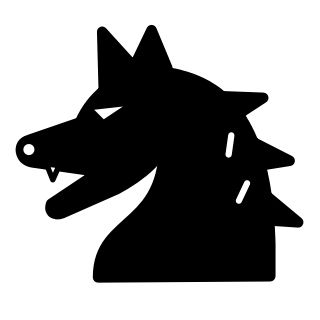
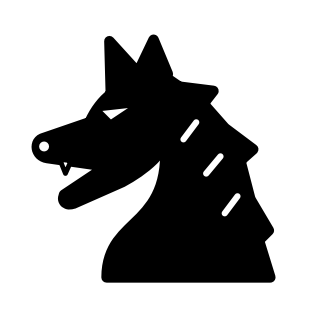
Ghost gets sad jellybean eyes; wolf back to round 22's mane with three of its spikes (local only)

diff --git a/art/source/piece_options/make_final_ghost_bard_werewolf.py b/art/source/piece_options/make_final_ghost_bard_werewolf.py
@@ -1,13 +1,12 @@
-"""Final Ghost (round 23 ghost_sheet with sad eyes), Bard (round 23 lyre_even),
-Werewolf (round 23 human_fur_ears_plain with three evenly spaced fur tufts a
-side) and its wolf form (round 23 wolf_big_head: three evenly spaced spikes down
-its back, no lines in its ears, no bottom tooth, a slightly thicker neck).
+"""Final Ghost (round 23 ghost_sheet with sad jellybean eyes), Bard (round 23
+lyre_even), Werewolf (round 23 human_fur_ears_plain with three evenly spaced fur
+tufts a side) and its wolf form (round 22 wolf_mane with three of its six
+spikes, same shape, evenly spaced; no lines in its ears, no bottom tooth).
 White and black, written to ../pieces/ (the wolf as <team>_werewolf_wolf.svg).
 
 Run from this folder:  python make_final_ghost_bard_werewolf.py
 """
 import io
-import math
 import os
 import sys
 
@@ -31,11 +30,14 @@ def ghost(team):
     out += detail("M 16.6,25 C 16.2,29 15.4,32.6 13.6,35.6 M 28.4,25 C 28.8,29 29.6,32.6 31.4,35.6 "
                   "M 22.5,27.5 L 22.5,34.6", inner(team), 1.0)
     eye = inner(team)
-    # Sad eyes: drooping at the outer corners, under brows raised in the middle.
-    out += shape("M 20.3,14.8 C 20.6,17.4 19.6,18.6 18.3,18.6 C 17,18.6 16.4,17.4 16.5,16 Z", eye, "none")
-    out += shape("M 24.7,14.8 C 24.4,17.4 25.4,18.6 26.7,18.6 C 28,18.6 28.6,17.4 28.5,16 Z", eye, "none")
-    out += detail("M 16,13.4 L 20,11.9 M 29,13.4 L 25,11.9", eye, 1.2)
+    # Sad eyes (Mac): tall jellybeans, dented on the inside, their tops leaning in.
+    for cx, lean, flip in ((18.4, 20, 1), (26.6, -20, -1)):
+        out += '<g transform="translate(%s 16.2) rotate(%s) scale(%s 1)">%s</g>' % (cx, lean, flip, shape(JELLYBEAN, eye, "none"))
     return out
+
+
+# A jellybean eye, centred on (0, 0), the dent on its right.
+JELLYBEAN = "M 0,-3 C 1.7,-3 2.1,-1.4 1.6,0 C 1.2,1.2 1.9,2.6 0.4,3.05 C -1.5,3.5 -2.1,1.8 -2.1,0 C -2.1,-1.8 -1.4,-3 0,-3 Z"
 
 
 # --- Werewolf: the coif with ears and three tufts of fur a side --------------------------
@@ -46,64 +48,22 @@ def werewolf(team):
     return r23.plain_coif(team, fur + r23.ears(team))
 
 
-# --- The wolf ----------------------------------------------------------------------------
-BACK = ((22, 10), (32.5, 11), (38.5, 18), (38, 39))  # The knight's back (a curve).
-
-
-def _bez(t):
-    (x0, y0), (x1, y1), (x2, y2), (x3, y3) = BACK
-    u = 1 - t
-    return (u ** 3 * x0 + 3 * u * u * t * x1 + 3 * u * t * t * x2 + t ** 3 * x3,
-            u ** 3 * y0 + 3 * u * u * t * y1 + 3 * u * t * t * y2 + t ** 3 * y3)
-
-
-# The curve sampled finely, with the distance along it to each sample.
-_SAMPLES = [_bez(i / 400) for i in range(401)]
-_DIST = [0.0]
-for _i in range(1, len(_SAMPLES)):
-    _DIST.append(_DIST[-1] + math.dist(_SAMPLES[_i - 1], _SAMPLES[_i]))
-
-
-def _at(fraction):
-    """The point `fraction` of the way along the back, and the unit tangent and
-    outward normal there."""
-    target = fraction * _DIST[-1]
-    i = next(k for k, d in enumerate(_DIST) if d >= target)
-    i = min(max(i, 1), len(_SAMPLES) - 2)
-    p = _SAMPLES[i]
-    tx, ty = _SAMPLES[i + 1][0] - _SAMPLES[i - 1][0], _SAMPLES[i + 1][1] - _SAMPLES[i - 1][1]
-    n = math.hypot(tx, ty)
-    tx, ty = tx / n, ty / n
-    return p, (tx, ty), (ty, -tx)
-
-
-SPIKES = (0.27, 0.48, 0.69)  # Where each spike starts, as a share of the back's length.
-SPIKE_SPAN = 0.09
+# --- The wolf: round 22's maned wolf, with three of its six spikes ------------------------
+# Round 22's mane, spike by spike: (tip, where it rejoins the back). Spikes 2, 4
+# and 6 are kept exactly as they were (Mac: same fur shape, three instead of
+# six); where 1, 3 and 5 were, the back runs straight on between the spikes.
+MANE = [((26.4, 10.4), (25.2, 12.2)), ((30, 12.8), (28.6, 14.6)), ((33.2, 16.4), (31.6, 18)),
+        ((35.6, 21), (33.8, 22.6)), ((37, 26.6), (35.2, 28)), ((37.8, 32.4), (36.4, 33.8))]
+KEPT = (1, 3, 5)
 
 
 def wolf_body():
-    """The knight's back with three spikes of fur evenly spaced down it, and its
-    front (neck) line a little further left than the knight's."""
-    points = []
-    marks = sorted([0.0, 1.0] + [s for s in SPIKES] + [s + SPIKE_SPAN for s in SPIKES])
     d = "M 22,10"
-    position = 0.0
-    for start in SPIKES:
-        # Along the back to the spike.
-        for k in range(1, 13):
-            f = position + (start - position) * k / 12
-            (x, y), _, _ = _at(f)
-            d += " L %.2f,%.2f" % (x, y)
-        (bx, by), (tx, ty), (nx, ny) = _at(start + SPIKE_SPAN * 0.45)
-        d += " L %.2f,%.2f" % (bx + nx * 4.0 + tx * 2.6, by + ny * 4.0 + ty * 2.6)
-        (ex, ey), _, (nx, ny) = _at(start + SPIKE_SPAN)
-        d += " L %.2f,%.2f" % (ex - nx * 0.9, ey - ny * 0.9)
-        position = start + SPIKE_SPAN
-    for k in range(1, 13):
-        f = position + (1.0 - position) * k / 12
-        (x, y), _, _ = _at(f)
-        d += " L %.2f,%.2f" % (x, y)
-    return d + " L 13.8,39 C 13.8,30 24.2,32.5 23,18"
+    for i, (tip, rejoin) in enumerate(MANE):
+        if i in KEPT:
+            d += " L %s,%s" % tip
+        d += " L %s,%s" % rejoin
+    return d + " L 38,39 L 15,39 C 15,30 25,32.5 23,18"
 
 
 def wolf_head(team):
@@ -120,17 +80,9 @@ def wolf_head(team):
 def wolf(team):
     fill, line = colours(team)
     out = shape(wolf_body(), fill)
-    # A line of fur under each gap between the spikes.
-    lines = ""
-    for i in range(len(SPIKES) - 1):
-        middle = (SPIKES[i] + SPIKE_SPAN + SPIKES[i + 1]) / 2
-        (x, y), (tx, ty), (nx, ny) = _at(middle)
-        x0, y0 = x - nx * 2.4, y - ny * 2.4
-        lines += "M %.2f,%.2f L %.2f,%.2f " % (x0, y0, x0 - nx * 1.6 + tx * 2.2, y0 - ny * 1.6 + ty * 2.2)
-    out += detail(lines, inner(team), 0.9)
-    k, cx, cy = 1.12, 24, 17  # The head 12% bigger, grown about the back of the neck.
-    head = wolf_head(team).replace('stroke-width="1.5"', 'stroke-width="%.2f"' % (1.5 / k))
-    return out + '<g transform="translate(%.2f %.2f) scale(%s)">%s</g>' % (cx * (1 - k), cy * (1 - k), k, head)
+    # Round 22's strokes of fur, one under each spike.
+    out += detail("M 27.6,17.2 L 25.8,19.6 M 31,22 L 29,24.4 M 33.4,27.6 L 31.6,30", inner(team), 0.9)
+    return out + wolf_head(team)
 
 
 PIECES = {"ghost": ghost, "bard": r23.lyre_even, "werewolf": werewolf, "werewolf_wolf": wolf}

diff --git a/CLAUDE.md b/CLAUDE.md
@@ -136,7 +136,7 @@ Mac: don't push or deploy any of this until he says so. Commit on `new-pieces`; 
 * Special rules: Parapet (PA, 3, Castle; sideways slide + diagonal step; `blocks_jumps`: nothing leaps over it, Knights count as 2 straight then 1, no Cannon screen), Vampire (V, 4; sideways/back slides, diagonal forward step; `shield_on_capture`, FEN `+`, small blue shield drawn on its square), Squire (SQ, 3; 2 straight or 1 diagonal; `protects ["knight"]`: Knights it could reach can't be captured), Jester (J, 4; moves 2, captures 1, any direction; `decoy`: takes the hit for a non-pawn piece it could reach, swapping places).
 * Abilities (once per game, uses the turn): Ghost (G, 3, diagonal step or 1 forward; HAUNT, pale blue -> icy white: once captured, on a later turn it comes back on ANY empty square; button shows with nothing selected; no rings, the captured Ghost glows in the captures row (`CapturedRow.haunting`) while choosing; can give check). Bard (BD, 3.5, up to 4 diagonally; SONG_OF_SLUMBER, gold -> amber: an enemy piece it could capture (not a king) can't move on the next turn; `GameState.frozen_piece()` = last move's `frozen`; "Zz" on it; a sleeping piece doesn't give check (lifted off the board in the legality check), so singing to a checking piece answers check). Werewolf (WW, 3, as the Ghost; FULL_MOON, moon white -> silver: becomes `transforms_into` = `res://data/pieces/forms/werewolf_wolf.tres` (WF; 1 sideways or back, up to 2 forward or diagonally forward, blocked) for good; `Piece.base_def` / `starting_def()` so Raise Dead brings back a Werewolf; the piece card has an "After Full Moon" / "Before Full Moon" button (`PieceCard.turn_over`)).
 * Sounds: LULLABY and HAUNT made in code; HOWL = `res://audio/sfx/wolf_howl.wav`, cut from a public-domain U.S. Fish and Wildlife Service recording (Wikimedia Commons "Wolf howls.ogg", licence note beside it). `GameSounds.recording()` loads .ogg or .wav.
-* Art (final, `art/source/piece_options/make_final_*.py`): Princess crown, Galleon, Catapult, Assassin daggers, Parapet wall, Vampire bat, Squire saddle, Jester cap, Ghost (bedsheet ghost with sad eyes), Bard (lyre, evenly spaced strings), Werewolf (the Man's coif with wolf ears and three fur tufts a side), wolf (knight body, wolf head 12% bigger, three evenly spaced spikes down the back). All in `make_final_ghost_bard_werewolf.py` for the last batch.
+* Art (final, `art/source/piece_options/make_final_*.py`): Princess crown, Galleon, Catapult, Assassin daggers, Parapet wall, Vampire bat, Squire saddle, Jester cap, Ghost (bedsheet ghost with sad jellybean eyes, no brows), Bard (lyre, evenly spaced strings), Werewolf (the Man's coif with wolf ears and three fur tufts a side), wolf (round 22 maned wolf keeping spikes 2, 4 and 6 of its six, no ear lines, top tooth only). All in `make_final_ghost_bard_werewolf.py` for the last batch.
 
 ## Open questions for Mac (noted, to decide later)
 
